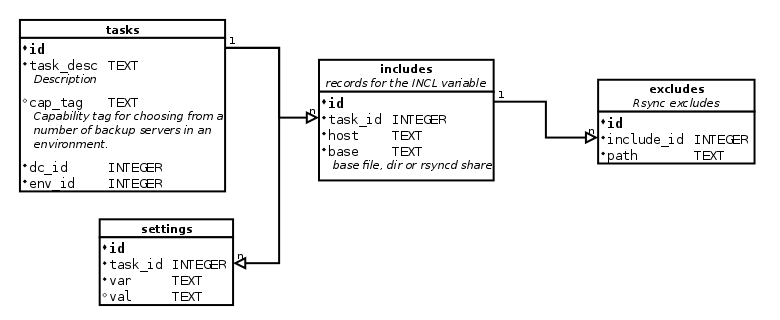
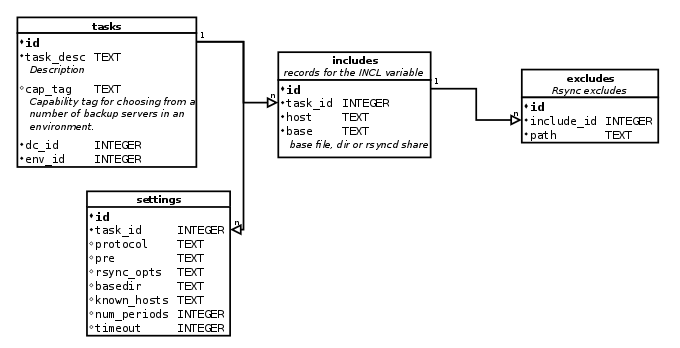
in progress

Changed region(s): [[0.0, 0.0312, 0.3706, 0.9688], [0.3397, 0.125, 0.9882, 0.5938]]

diff --git a/html/view.html b/html/view.html
@@ -353,11 +353,11 @@
 	<!-- BASEDIR -->
 
 	<div class="form-group">
-	  <label for="basedir" class="col-sm-3 control-label">
+	  <label for="base_dir" class="col-sm-3 control-label">
 	      BASEDIR
 	  </label>
 	  <div class="col-sm-7">
-	    <input class="form-control" id="basedir" ng-model="settings.basedir"
+	    <input class="form-control" id="base_dir" ng-model="settings.base_dir"
 	    placeholder="Path of directory containing backups." type="text">
 	  </div>
 	</div>
@@ -365,11 +365,11 @@
 	<!-- KNOWNHOSTS -->
 
 	<div class="form-group">
-	  <label for="workerip" class="col-sm-3 control-label">
+	  <label for="known_hosts" class="col-sm-3 control-label">
 	      KNOWNHOSTS
 	  </label>
 	  <div class="col-sm-7">
-	    <input class="form-control" id="workerip" ng-model="settings.knownhosts"
+	    <input class="form-control" id="known_hosts" ng-model="settings.known_hosts"
 	    placeholder="Location of the ssh known_hosts file."
 	    ng-trim='false' type="text">
 	  </div>
@@ -378,11 +378,11 @@
 	<!-- NUMPERIODS -->
 
 	<div class="form-group">
-	  <label for="numperiods" class="col-sm-3 control-label">
+	  <label for="num_periods" class="col-sm-3 control-label">
 	      NUMPERIODS
 	  </label>
 	  <div class="col-sm-7">
-	    <input class="form-control" id="numperiods" ng-model="settings.numperiods"
+	    <input class="form-control" id="num_periods" ng-model="settings.num_periods"
 	    placeholder="Number of periods in a day."
 	    ng-trim='false' type="text">
 	  </div>

diff --git a/js/controllers/rsyncbackup.js b/js/controllers/rsyncbackup.js
@@ -228,9 +228,9 @@ mgrApp.controller("rsyncBackup", function ($scope,$http,$uibModal,$log,
     $scope.settings = { protocol:"rsyncd",
                         pre:"create_zfs_snapshot",
                         rsync_opts:"--sparse",
-                        basedir:"/backup/servers-zfs/",
-                        knownhosts:"",
-                        numperiods:1,
+                        base_dir:"/backup/servers-zfs/",
+                        known_hosts:"",
+                        num_periods:1,
                         timeout:0 };
 
     $scope.backuptasks = false;
